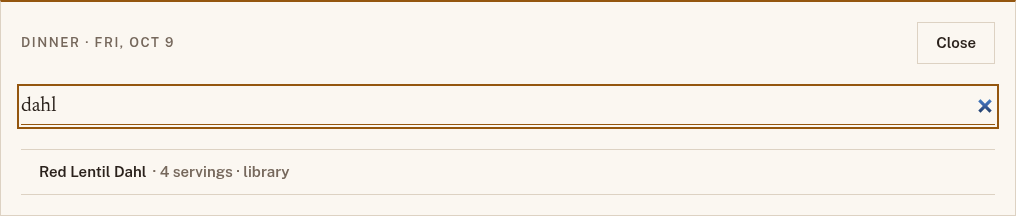
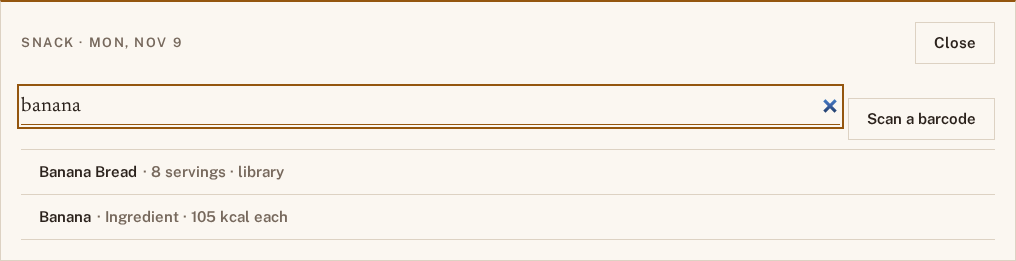
test(harness): plan a banana and a scanned product as foods

diff --git a/tools/harness/scenarios/plan-food.spec.ts b/tools/harness/scenarios/plan-food.spec.ts
@@ -1,0 +1,117 @@
+import { readFileSync } from "node:fs";
+
+import type { Locator } from "@playwright/test";
+
+import { MARMITE, fixtures } from "../fakes/open-food-facts/src/fixtures.ts";
+import { apiAs, browserWeek, expect, register, test } from "./fixtures.ts";
+
+/** The fake Open Food Facts (tools/harness/fakes/open-food-facts), published on loopback by compose.fakes.yml. */
+const FAKE = `http://127.0.0.1:${process.env.OPEN_FOOD_FACTS_FAKE_PORT ?? "8091"}`;
+
+const BANANA = (
+  JSON.parse(
+    readFileSync(new URL("../../../core/core-recipes/src/main/resources/library/ingredient-seed.json", import.meta.url), "utf8"),
+  ) as { slug: string; calories: number }[]
+).find((entry) => entry.slug === "banana")!;
+
+const MARMITE_KCAL_PER_100_G = (fixtures().get(MARMITE)!.nutriments as Record<string, number>)["energy-kcal_100g"]!;
+
+type ShoppingList = { items: { name: string; quantity?: number }[] };
+
+/**
+ * Plan single foods without a recipe (ADR-0026): a banana picked from the
+ * search, then Marmite scanned by its typed barcode against the fake Open
+ * Food Facts. The camera is refused (this test never grants it), so the
+ * scan dialog falls back to the typed field.
+ */
+test("plans a banana and a scanned product as foods, not recipes", async ({ page }) => {
+  const stamp = Date.now().toString(36);
+  expect((await page.request.post(`${FAKE}/_fake/reset`)).ok(), "the fake resets").toBe(true);
+
+  await register(page, `plan-food-${stamp}`);
+  const api = await apiAs(page);
+  const { monday } = await browserWeek(page);
+  const kcal = (pieces: number) => `${Math.round(BANANA.calories * pieces)} kcal`;
+  const mondayCard = page.locator(".week .day").nth(0);
+  const planned = mondayCard.getByRole("group", { name: /^Planned for / });
+  const banana = mondayCard.locator(".planned-meal").filter({ hasText: "Banana" });
+  const marmite = mondayCard.locator(".planned-meal").filter({ hasText: "Yeast Extract (Marmite)" });
+
+  await test.step("plan a banana as Monday's snack: one piece, its calories from the seed", async () => {
+    await page.goto("/app/plan");
+    await mondayCard.getByRole("button", { name: /^Add Snack for / }).click();
+    const picker = page.getByRole("dialog", { name: "Pick a meal" });
+    await picker.getByRole("searchbox").fill("banana");
+    await picker.getByRole("button", { name: /^Banana · Ingredient/ }).click();
+    await expect(picker).toHaveCount(0);
+    await expect(banana.getByLabel("Amount of Banana")).toHaveValue("1");
+    await expect(planned).toContainText(kcal(1));
+  });
+
+  await test.step("the API reads it as a food, with no recipe", async () => {
+    const week = await api<{ entries: { recipeId?: string; food?: { catalogSlug: string }; servings: number }[] }>(
+      "GET",
+      `/api/v1/plans/${monday}`,
+    );
+    expect(week.entries).toHaveLength(1);
+    expect(week.entries[0]).toMatchObject({ food: { catalogSlug: "banana" }, servings: 1 });
+    expect(week.entries[0]!.recipeId).toBeUndefined();
+  });
+
+  await test.step("two bananas double the total without a reload", async () => {
+    await banana.getByLabel("Amount of Banana").fill("2");
+    await banana.getByLabel("Amount of Banana").press("Enter");
+    await expect(planned).toContainText(kcal(2));
+  });
+
+  await test.step("the shopping list has the banana", async () => {
+    await page.goto(`/app/shopping-list?week=${monday}`);
+    await page.getByRole("button", { name: "Generate from this week's plan" }).click();
+    await expect(page.locator(".shopping-items li").filter({ hasText: "Banana" })).toBeVisible();
+    const list = await api<ShoppingList>("GET", `/api/v1/plans/${monday}/shopping-list`);
+    expect(list.items.find((item) => item.name === "Banana")?.quantity).toBe(2);
+  });
+
+  await test.step("log the snack: the Log page lists it", async () => {
+    await page.goto("/app/plan");
+    await banana.getByRole("button", { name: "Log", exact: true }).click();
+    await expect(page.getByRole("status")).toHaveText("Banana logged.");
+    await page.goto("/app/log");
+    await page.getByRole("row", { name: /^Mon/ }).click();
+    await expect(page.locator(".log-entries li").filter({ hasText: "Banana, 2 pieces" })).toBeVisible();
+  });
+
+  await test.step("scan Marmite by its typed barcode: it lacks a fat value, so the form asks for it", async () => {
+    await page.goto("/app/plan");
+    await mondayCard.getByRole("button", { name: /^Add Snack for / }).click();
+    const picker = page.getByRole("dialog", { name: "Pick a meal" });
+    await picker.getByRole("button", { name: "Scan a barcode" }).click();
+    const scan = page.getByRole("dialog", { name: "Scan a barcode" });
+    await scan.getByLabel("Barcode number").fill(MARMITE);
+    await scan.getByRole("button", { name: "Look up" }).click();
+    await expect(scan).toBeHidden();
+    const form = picker.getByRole("group", { name: "New ingredient" });
+    await expect(form.getByLabel("Name")).toHaveValue("Yeast Extract (Marmite)");
+    await form.getByLabel("Fat g").fill("0");
+    await form.getByRole("button", { name: "Save ingredient" }).click();
+    await expect(picker).toHaveCount(0);
+  });
+
+  await test.step("it is planned at its 8 g serving", async () => {
+    await expect(marmite.getByLabel("Amount of Yeast Extract (Marmite)")).toHaveValue("8");
+    await expect(marmite).toContainText("g");
+    await expect(planned).toContainText(`${Math.round(BANANA.calories * 2 + (MARMITE_KCAL_PER_100_G * 8) / 100)} kcal`);
+  });
+
+  await test.step("searching marmite in the picker finds the new ingredient", async () => {
+    await openPicker(mondayCard);
+    const picker = page.getByRole("dialog", { name: "Pick a meal" });
+    await picker.getByRole("searchbox").fill("marmite");
+    await expect(picker.getByRole("button", { name: /^Yeast Extract \(Marmite\)/ })).toContainText("Your ingredient");
+  });
+});
+
+async function openPicker(dayCard: Locator): Promise<void> {
+  await dayCard.getByRole("button", { name: /^Add Snack for / }).click();
+}
+

diff --git a/tools/harness/test/args.test.ts b/tools/harness/test/args.test.ts
@@ -129,7 +129,7 @@ test("ui: one known scenario, headless as the test user by default", () => {
 });
 
 test("ui: scenarios are the spec files in tools/harness/scenarios", () => {
-  assert.deepEqual(scenarioNames(), ["account-data", "app-nav", "app-pages", "calculated-nutrition", "country-wheel", "create-recipe", "edit-recipe", "fuel-profile", "fuel-targets", "household", "intervals-icu", "keycloak-theme", "kitchen-home", "log-barcode", "log-recipe", "login", "planned-totals", "plugin-opt-in", "recipe-as-ingredient", "recipe-form-errors", "recipe-pictures", "recipe-sort-filter", "session-expiry", "shared-week", "stay-signed-in"]);
+  assert.deepEqual(scenarioNames(), ["account-data", "app-nav", "app-pages", "calculated-nutrition", "country-wheel", "create-recipe", "edit-recipe", "fuel-profile", "fuel-targets", "household", "intervals-icu", "keycloak-theme", "kitchen-home", "log-barcode", "log-recipe", "login", "plan-food", "planned-totals", "plugin-opt-in", "recipe-as-ingredient", "recipe-form-errors", "recipe-pictures", "recipe-sort-filter", "session-expiry", "shared-week", "stay-signed-in"]);
 });
 
 test("displayCommand quotes only what needs quoting", () => {

diff --git a/docs/guide/planning.md b/docs/guide/planning.md
@@ -12,9 +12,10 @@ slots: breakfast, lunch, dinner, and snack. Use **← Previous** and
 2. Search your recipes, the library, and ingredients, or scroll the list.
 3. Choose a recipe. It goes into the slot for 2 servings, or, when you
    [share a household](#planning-for-a-household), one serving for each
-   person eating it.
+   person eating it. Choosing an ingredient plans
+   [a single food](#planning-a-single-food) instead.
 
-![Picking a recipe for Friday's dinner](../assets/screenshots/plan-picker.png)
+![Picking a meal for a snack: a recipe, an ingredient, and Scan a barcode](../assets/screenshots/plan-picker.png)
 
 A slot can hold more than one recipe, such as a main and a side.
 
@@ -24,23 +25,29 @@ Not everything needs a recipe. A snack slot can hold one ingredient, such
 as a banana, straight from the search in [Adding a meal](#adding-a-meal).
 
 1. Choose **+** next to the slot you want to fill.
-2. Start typing the ingredient's name, such as "banana". The list shows
-   the shared ingredients and your household's own, each with its
-   calories.
+2. Start typing the ingredient's name, such as "banana". Ingredients
+   follow the recipes in the list: the shared ones and your household's
+   own, each marked as such with its calories.
 3. Choose the ingredient. It goes into the slot for each person eating
    it, at 1 piece, or 100 g or 100 ml when it's measured that way.
 
 A planned food shows its name and amount, such as "Banana, 1" or
-"Bagel, 85 g". Instead of the servings buttons, it has an **Amount**
-field. Type a new amount and press Enter.
+"Bagel, 85 g". Instead of the servings buttons, it has an amount you can
+type over, with its unit beside it. Press Enter, or leave the field, to
+save the new amount. An amount Mimos can't use goes back to what was
+planned.
 
 **Scan a barcode** in the picker looks a packaged product up in
 [Open Food Facts](https://world.openfoodfacts.org), as on the
-[log page](log.md#logging-something-else). If the product has its
-nutrition, Mimos saves it as one of your household's ingredients and
-plans it at its serving size, so you can search for it again next week.
-If the product lacks a nutrition value, Mimos asks for the missing ones
-before saving it.
+[log page](log.md#logging-something-else): point the camera at it, or
+type the number. If the product has all four nutrition values, Mimos
+saves it as one of your household's ingredients and plans it at its
+serving size, or at 100 g or 100 ml when it has none. Scanning the same
+product again plans that ingredient rather than adding a second copy, so
+you can also find it by name in the search next week. If Open Food Facts
+lacks a value, Mimos opens the new-ingredient form with what it did
+find, so you can fill in the rest and save. Choose **Cancel** to go back
+to the picker; nothing is saved.
 
 A planned food works like any other meal: **Log** logs your share of its
 amount, the [planned total](#your-planned-total) and

diff --git a/docs/guide/your-data.md b/docs/guide/your-data.md
@@ -37,7 +37,8 @@ you share a [household](household.md), leave it first. If you've already started
 whoever runs it to give you a fresh one.
 
 Every planned meal in the file comes back as yours alone, with the
-servings it was planned with.
+servings it was planned with. A [planned food](planning.md#planning-a-single-food)
+comes back with its amount, along with the ingredient it uses.
 
 Plans and logs that use library recipes come across as long as the new
 Mimos has those recipes in its library. If it doesn't, the import tells you
